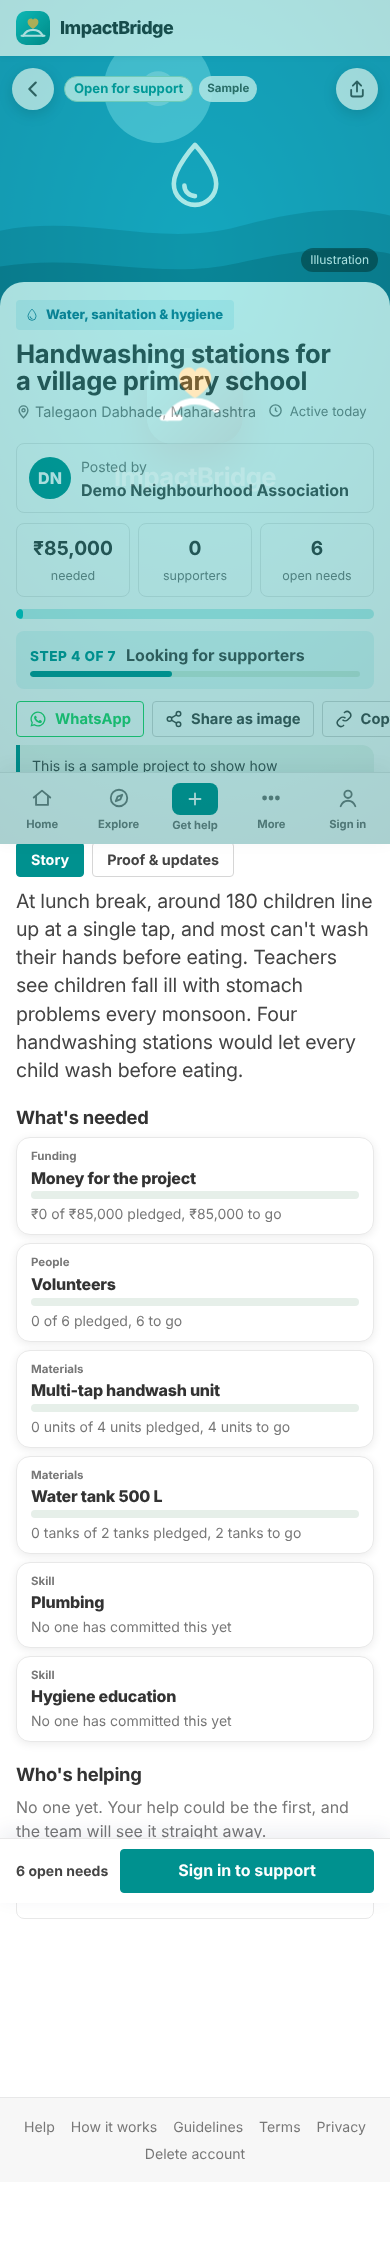
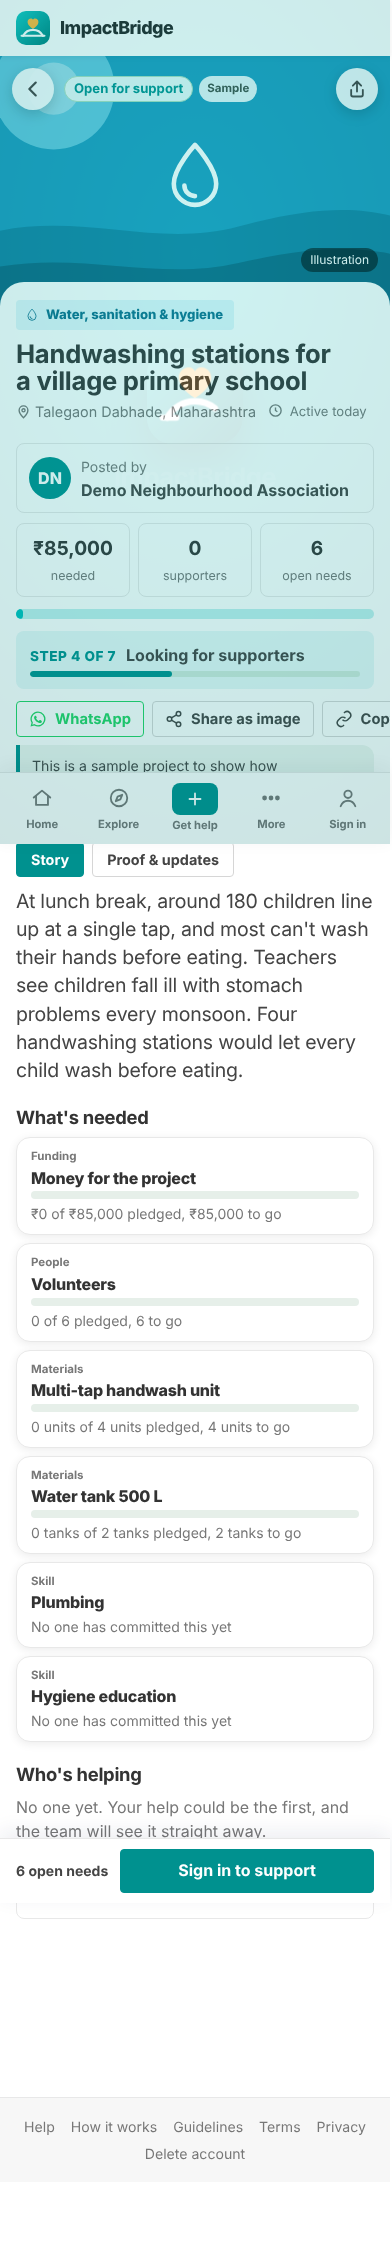
Fix first six QA faults: plain-language errors, signup org default, photo check at step 2, no server jargon, Share button, not-found page
Claude-Session: https://claude.ai/code/session_01P5PmPGbDwFuAbrgHFfdp17

diff --git a/frontend/js/hosted/server.js b/frontend/js/hosted/server.js
@@ -37,18 +37,18 @@ export const hostedContext = () => CTX;
 // ------------------------------------------------------------------ validation helpers
 const str = (v, { field, min = 0, max = 4000, required = false, label } = {}) => {
   if (v === null || v === undefined || String(v).trim() === "") {
-    if (required || min > 0) E(422, `${label || field}: This field is required`, field);
+    if (required || min > 0) E(422, `${label || field}: Please fill this in.`, field);
     return null;
   }
   const s = String(v).trim();
-  if (s.length < min) E(422, `${label || field}: Must be at least ${min} characters`, field);
-  if (s.length > max) E(422, `${label || field}: Must be at most ${max} characters`, field);
+  if (s.length < min) E(422, `${label || field}: Use at least ${min} characters.`, field);
+  if (s.length > max) E(422, `${label || field}: Keep this under ${max + 1} characters.`, field);
   return s;
 };
 const numv = (v, { field, min = 0, max = 1e12, int = false, gt = false, label } = {}) => {
   if (v === null || v === undefined || v === "") return null;
   const n = Number(v);
-  if (Number.isNaN(n)) E(422, `${label || field}: Must be a number`, field);
+  if (Number.isNaN(n)) E(422, `${label || field}: Enter a number.`, field);
   if (gt ? n <= min : n < min) E(422, `${label || field}: Must be ${gt ? "greater than" : "at least"} ${min}`, field);
   if (n > max) E(422, `${label || field}: Too large`, field);
   return int ? Math.round(n) : n;
@@ -628,7 +628,7 @@ const describeC = (c) => c.kind === "money" ? `Funding: ${Number(c.quantity).toL
 function commitmentFields(b) {
   if (!COMMITMENT_KINDS[b.kind]) E(422, "kind: Choose money, volunteers, materials, equipment or skills", "kind");
   const quantity = numv(b.quantity, { field: "quantity", gt: true, min: 0, label: "Quantity" });
-  if (quantity === null) E(422, "quantity: This field is required", "quantity");
+  if (quantity === null) E(422, "quantity: Please fill this in.", "quantity");
   if (["materials", "equipment", "skills"].includes(b.kind) && !str(b.item, { max: 120 })) E(422, "Say which item or skill you are offering", "item");
   if (b.kind === "volunteers" && quantity !== Math.round(quantity)) E(422, "Volunteer count must be a whole number", "quantity");
   return { kind: b.kind, quantity, item: str(b.item, { max: 120 }), unit: b.kind === "money" ? null : str(b.unit, { max: 40 }), hours: numv(b.hours, { field: "hours", gt: true, min: 0, max: 10000 }),

diff --git a/frontend/js/views/create.js b/frontend/js/views/create.js
@@ -190,7 +190,7 @@ export default async function create({ el, params, opts }) {
         <span id="voice-status" class="small muted" aria-live="polite"></span>
         <div class="thumbs" id="thumbs" style="margin-top:var(--s3)"></div>
       </fieldset>
-      ${aiOK ? "" : html`<p class="notice warn">AI drafting isn't configured on this server yet, so you'll fill in the proposal form yourself. Your description is kept as the original.</p>`}
+      ${aiOK ? "" : html`<p class="small muted">Next you'll fill in the proposal. What you wrote is kept as it is.</p>`}
       <div class="wiz-nav"><button type="button" class="btn ghost" id="back1">Back</button>
         <div class="row">${aiOK ? html`<button class="btn primary" type="submit" data-mode="ai">Draft my proposal with AI</button>` : ""}
         <button class="btn ${aiOK ? "" : "primary"}" type="submit" data-mode="manual">${aiOK ? "Fill in the form myself" : "Next: the proposal"}</button></div></div>
@@ -213,6 +213,7 @@ export default async function create({ el, params, opts }) {
       }
       $("#voice-status", f).textContent = "";
       e.target.value = "";
+      if (s.photos.length) $(".form-error", f).hidden = true;
       drawThumbs(); saveLocal();
     });
     function drawThumbs() {
@@ -230,6 +231,12 @@ export default async function create({ el, params, opts }) {
       e.preventDefault();
       const mode = e.submitter?.dataset.mode || "manual";
       keep();
+      if (state.meta?.require_project_photo !== false && !s.photos.length) {
+        const box = $(".form-error", f);
+        box.hidden = false; box.textContent = "Please add at least one real photo of the problem before you continue.";
+        $("#photos", f).closest("fieldset").scrollIntoView({ block: "center", behavior: "smooth" });
+        return;
+      }
       if (mode === "manual") {
         s.proposal = s.proposal && !s.aiProvider ? s.proposal : { title: "", problem_statement: s.description, city: s.city, region: s.region, cause: s.cause || null,
           materials: [], skills: [], milestones: [], outcomes: [] };

diff --git a/frontend/js/views/auth.js b/frontend/js/views/auth.js
@@ -129,7 +129,7 @@ function profileFields(withOrgToggle = true) {
         <div class="field"><label for="region">State / region</label><input id="region" name="region" autocomplete="address-level1"></div>
       </div>
       <fieldset id="orgset"><legend>Your organization</legend>
-        <label class="check" id="org-optional"><input type="checkbox" id="has-org" checked><span>I'm registering on behalf of an organization or group</span></label>
+        <label class="check" id="org-optional"><input type="checkbox" id="has-org"><span>I'm registering on behalf of an organization or group</span></label>
         <div id="orgfields" class="form-grid">
           <div class="field full"><label for="org-name">Organization name</label><input id="org-name" name="organization.name"></div>
           <div class="field"><label for="org-type">Type</label><select id="org-type" name="organization.org_type"></select></div>
@@ -141,7 +141,7 @@ function profileFields(withOrgToggle = true) {
 }
 
 function wireOrg(f, el) {
-  const syncOrg = () => {
+  const syncOrg = (e) => {
     const role = f.querySelector("input[name=role]:checked").value;
     const set = $("#orgset", el);
     set.hidden = role === "volunteer";
@@ -149,9 +149,10 @@ function wireOrg(f, el) {
     mount($("#org-type", el), html`${types.map(([v, t]) => html`<option value="${v}">${t}</option>`)}`);
     $("#org-optional", el).hidden = role !== "submitter";
     if (role !== "submitter") $("#has-org", el).checked = true;
+    else if (e?.target?.name === "role") $("#has-org", el).checked = false;
     $("#orgfields", el).hidden = !$("#has-org", el).checked;
   };
-  f.addEventListener("change", (e) => { if (e.target.name === "role" || e.target.id === "has-org") syncOrg(); });
+  f.addEventListener("change", (e) => { if (e.target.name === "role" || e.target.id === "has-org") syncOrg(e); });
   syncOrg();
 }
 

diff --git a/frontend/js/i18n/hi.js b/frontend/js/i18n/hi.js
@@ -1,6 +1,17 @@
 // Generated from translation tables. English source text -> Hindi.
 /* eslint-disable */
 export default {
+"Please fill this in.": "कृपया इसे भरें।",
+"Please fix the highlighted fields.": "कृपया चिह्नित खाने ठीक करें।",
+"Enter a number.": "एक संख्या लिखें।",
+"Please choose one of the options.": "कृपया कोई एक विकल्प चुनें।",
+"Please check this.": "कृपया इसे जाँचें।",
+"Please tick or untick this.": "कृपया इसे चुनें या हटाएँ।",
+"Please add at least one real photo of the problem before you continue.": "आगे बढ़ने से पहले समस्या की कम से कम एक असली फ़ोटो जोड़ें।",
+"We couldn't find that": "यह नहीं मिला",
+"The link may be old, or the project isn't public yet.": "लिंक पुराना हो सकता है, या प्रोजेक्ट अभी सार्वजनिक नहीं है।",
+"Next you'll fill in the proposal. What you wrote is kept as it is.": "अब आप प्रस्ताव भरेंगे। आपने जो लिखा है वह जैसा है वैसा रखा जाता है।",
+"Organization type": "संस्था का प्रकार",
 "(at least {0} needed)": "(कम से कम {0} ज़रूरी)",
 "(email isn't configured on this server yet)": "(इस सर्वर पर अभी ईमेल सेट नहीं है)",
 "(kept unchanged, visible to you and reviewers)": "(बिना बदलाव, आपको और समीक्षकों को दिखता है)",

diff --git a/frontend/js/i18n/mr.js b/frontend/js/i18n/mr.js
@@ -1,6 +1,17 @@
 // Generated from translation tables. English source text -> Marathi.
 /* eslint-disable */
 export default {
+"Please fill this in.": "कृपया हे भरा.",
+"Please fix the highlighted fields.": "कृपया चिन्हांकित रकाने दुरुस्त करा.",
+"Enter a number.": "एक संख्या लिहा.",
+"Please choose one of the options.": "कृपया एक पर्याय निवडा.",
+"Please check this.": "कृपया हे तपासा.",
+"Please tick or untick this.": "कृपया हे निवडा किंवा काढा.",
+"Please add at least one real photo of the problem before you continue.": "पुढे जाण्यापूर्वी समस्येचा किमान एक खरा फोटो जोडा.",
+"We couldn't find that": "ते सापडले नाही",
+"The link may be old, or the project isn't public yet.": "लिंक जुनी असू शकते, किंवा प्रकल्प अजून सार्वजनिक नाही.",
+"Next you'll fill in the proposal. What you wrote is kept as it is.": "आता तुम्ही प्रस्ताव भराल. तुम्ही लिहिलेले जसे आहे तसे ठेवले जाते.",
+"Organization type": "संस्थेचा प्रकार",
 "(at least {0} needed)": "(किमान {0} आवश्यक)",
 "(email isn't configured on this server yet)": "(या सर्व्हरवर अजून ईमेल सेट केलेले नाही)",
 "(kept unchanged, visible to you and reviewers)": "(बदल न करता, तुम्हाला आणि पुनरावलोककांना दिसते)",

diff --git a/frontend/js/core.js b/frontend/js/core.js
@@ -147,9 +147,12 @@ export function toast(msg, kind = "") {
 }
 export const loading = (label = "Loading") => html`<div class="state" aria-busy="true"><p>${label}…</p></div>`;
 export const skeletonTiles = (n = 3) => html`<div class="tiles">${Array.from({ length: n }, () => html`<div class="skeleton"></div>`)}</div>`;
-export const errorState = (err, retry = true) => html`
-  <div class="state" role="alert"><h3>That didn't load</h3><p>${err.message}</p>
-  ${retry ? html`<button class="btn" data-action="reload">Try again</button>` : ""}</div>`;
+export const errorState = (err, retry = true) => err.status === 404
+  ? html`<div class="state" role="alert"><h3>We couldn't find that</h3><p>${err.message}</p>
+      <p class="small muted">The link may be old, or the project isn't public yet.</p>
+      <a class="btn primary" href="/explore">Browse projects</a></div>`
+  : html`<div class="state" role="alert"><h3>That didn't load</h3><p>${err.message}</p>
+      ${retry ? html`<button class="btn" data-action="reload">Try again</button>` : ""}</div>`;
 export const emptyState = (title, body, action = "") => html`<div class="state"><h3>${title}</h3><p>${body}</p>${action}</div>`;
 
 /** Bridge meter: requested vs pledged vs received. */

diff --git a/frontend/js/app.js b/frontend/js/app.js
@@ -77,6 +77,7 @@ async function router() {
   } catch (err) {
     if (token !== navToken) return;
     if (![403, 404].includes(err.status)) console.error(err);
+    if (err.status === 404) document.title = "Not found — ImpactBridge";
     mount(el, html`<div class="wrap">${errorState(err)}</div>`);
   }
   if (anchor) document.getElementById(anchor)?.scrollIntoView();

diff --git a/frontend/css/styles.css b/frontend/css/styles.css
@@ -1477,3 +1477,8 @@ h3 { font-size: 1.06rem; }
 }
 .pc-first { color: var(--teal-deep); }
 html.in-app .site-footer { display: none; }
+
+/* v9: the Share and Help buttons never wrap, even in narrow carousel cards */
+.kc-actions { grid-template-columns: auto 1fr; }
+.kc-actions .btn { white-space: nowrap; }
+.kc-share { padding-inline: 12px; gap: 6px; }

diff --git a/backend/app/web.py b/backend/app/web.py
@@ -33,11 +33,48 @@ async def parse(request: Request, model: type[M]) -> M:
         details = []
         for err in exc.errors():
             loc = ".".join(str(p) for p in err.get("loc", ()) if p != "body")
-            msg = err.get("msg", "Invalid value").replace("Value error, ", "")
-            details.append({"field": loc, "message": msg})
-        first = details[0] if details else {"field": None, "message": "Invalid input"}
-        label = first["field"].replace("_", " ") if first["field"] else "Input"
-        raise ApiError(422, f"{label}: {first['message']}", field=first["field"], details=details)
+            details.append({"field": loc, "message": _friendly(err)})
+        first = details[0] if details else {"field": None, "message": "Please check what you entered."}
+        if len(details) > 1:
+            top = "Please fix the highlighted fields."
+        elif first["field"]:
+            top = f"{_label(first['field'])}: {first['message']}"
+        else:
+            top = first["message"]
+        raise ApiError(422, top, field=first["field"], details=details)
+
+
+_LABELS = {"organization.name": "Organization name", "organization.org_type": "Organization type",
+           "accept_terms": "Terms", "city": "City or town", "region": "State / region", "name": "Name"}
+
+
+def _label(field: str) -> str:
+    return _LABELS.get(field) or field.split(".")[-1].replace("_", " ").capitalize()
+
+
+def _friendly(err: dict) -> str:
+    """Turn a validation error into a sentence a person can act on (no library jargon)."""
+    kind, ctx = err.get("type", ""), err.get("ctx") or {}
+    if kind in ("missing", "string_type", "none_required", "model_attributes_type"):
+        return "Please fill this in."
+    if kind == "string_too_short":
+        n = ctx.get("min_length", 1)
+        return "Please fill this in." if n <= 1 else f"Use at least {n} characters."
+    if kind == "string_too_long":
+        return f"Keep this under {ctx.get('max_length', 0) + 1} characters."
+    if kind in ("int_parsing", "float_parsing", "int_type", "float_type", "decimal_parsing"):
+        return "Enter a number."
+    if kind in ("greater_than_equal", "greater_than"):
+        return f"Enter a number that is {'at least' if kind.endswith('equal') else 'more than'} {ctx.get('ge', ctx.get('gt', 0))}."
+    if kind in ("less_than_equal", "less_than"):
+        return f"Enter a number that is {'at most' if kind.endswith('equal') else 'less than'} {ctx.get('le', ctx.get('lt', 0))}."
+    if kind in ("bool_type", "bool_parsing"):
+        return "Please tick or untick this."
+    if kind == "literal_error" or kind == "enum":
+        return "Please choose one of the options."
+    if kind.startswith("value_error"):
+        return str(err.get("msg", "Please check this.")).replace("Value error, ", "")
+    return "Please check this."
 
 
 def qint(request: Request, name: str, default: int | None = None, lo: int | None = None, hi: int | None = None) -> int | None:

diff --git a/tests_ui/ui_journey.py b/tests_ui/ui_journey.py
@@ -41,6 +41,8 @@ async def main():
     await m.locator("#drawer").get_by_role("link", name="Create an account").click()
     await m.get_by_label("Your name").fill("Sunita Patil"); await m.get_by_label("Email").fill(f"sunita{U}@test.org")
     await m.get_by_label("Password").fill("Secure#pass1"); await m.get_by_label("City or town").fill("Pune"); await m.get_by_label("State / region").fill("Maharashtra")
+    await expect(m.get_by_label("Organization name")).to_be_hidden(); ok("organization box is off by default for a community member")
+    await m.get_by_text("registering on behalf").click()
     await m.get_by_label("Organization name").fill(f"Kasarwadi Residents {U}")
     await m.get_by_role("button", name="Create account").click()
     await expect(m.locator(".form-error")).to_contain_text("accept", timeout=5000); ok("terms must be accepted")
@@ -49,7 +51,9 @@ async def main():
     await m.goto(BASE+"/share-a-need")
     await m.get_by_label("What is the problem").fill("The public toilet block near Kasarwadi market has no working water connection, so about 300 women vendors avoid using it all day.")
     await m.get_by_role("button", name="Next: photos and place").click()
-    await expect(m.get_by_text("AI drafting isn't configured")).to_be_visible(); ok("missing AI key is clearly reported in the need creator")
+    await expect(m.get_by_text("AI drafting isn't configured")).to_have_count(0); ok("no server-setup jargon shown to end users")
+    await m.get_by_role("button", name="Next: the proposal").click()
+    await expect(m.locator(".form-error")).to_contain_text("at least one real photo"); ok("step 2 blocks Next until a photo is added")
     await m.locator("#photos").set_input_files({"name":"toilet.png","mimeType":"image/png","buffer":PNG})
     await expect(m.locator("#thumbs img")).to_have_count(1, timeout=8000); ok("photo uploaded in need creator")
     await m.get_by_role("button", name="Next: the proposal").click()

diff --git a/backend/tests/test_journeys.py b/backend/tests/test_journeys.py
@@ -138,6 +138,18 @@ class AuthTests(Base):
     def setUp(self):
         self.anon = Api(self.app)
 
+    def test_validation_messages_are_plain_sentences(self):
+        r = self.anon.post("/api/auth/register", {"email": "x@example.org", "password": "abc", "name": "Xy", "role": "submitter",
+                                                  "accept_terms": True, "organization": {"name": None, "org_type": "community"}})
+        self.assertEqual(r.status_code, 422)
+        text = r.text
+        for jargon in ("valid string", "String should", "Input should", "Field required"):
+            self.assertNotIn(jargon, text)
+        fields = {d["field"]: d["message"] for d in r.json()["details"]}
+        self.assertIn("Use at least 8 characters.", fields.get("password", ""))
+        self.assertEqual(fields.get("organization.name"), "Please fill this in.")
+        self.assertEqual(r.json()["error"], "Please fix the highlighted fields.")
+
     def test_registration_login_and_roles(self):
         u = self.register("asha@example.org", "submitter",
                           org={"name": "Ward 12 Residents", "org_type": "community"})

diff --git a/backend/app/routes/misc.py b/backend/app/routes/misc.py
@@ -22,7 +22,7 @@ async def meta(request: Request):
     return ok({
         "causes": CAUSES, "org_types": ORG_TYPES, "commitment_kinds": COMMITMENT_KINDS,
         "statuses": PROJECT_STATUSES, "report_reasons": REPORT_REASONS, "currency": config.settings.currency,
-        "roles": {k: ROLE_LABELS[k] for k in SELF_SERVICE_ROLES}, "integrations": config.settings.integrations(),
+        "roles": {k: ROLE_LABELS[k] for k in SELF_SERVICE_ROLES}, "integrations": config.settings.integrations(), "require_project_photo": config.settings.require_project_photo,
         "support_email": config.settings.support_email or None,
         "support_whatsapp": config.settings.support_whatsapp or None,
     })
